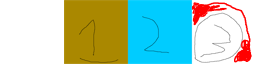
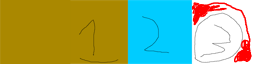
single tile sheet for tile map

Changed region(s): [[0.0, 0.0, 0.2812, 1.0]]

diff --git a/multiplayer_game_2d/tile_map.h b/multiplayer_game_2d/tile_map.h
@@ -11,15 +11,13 @@ struct tile_map
   const float tile_size_x;
   const float tile_size_y;
   const int vertice_count = (p_rows * p_columns * 4) + 4; // (4 vertices per tile) + 4 vertices for background
-  sf::Texture background_texture;
   sf::Texture tiles_texture;
   sf::Vertex vertex_buffer[(p_rows * p_columns * 4) + 4]; // (4 vertices per tile) + 4 vertices for background
   int bitmap[p_rows * p_columns] = {0};
   const int tiles_texture_offset;                         // pixel width and height for a tile in tile sheet
 
-  tile_map(const char* background_texture_file_path, const char* tiles_texture_file_path, const float window_size_x, const float window_size_y, const int p_tiles_texture_offset) : tile_size_x(window_size_x / rows),tile_size_y(window_size_y / columns), tiles_texture_offset(p_tiles_texture_offset)
+  tile_map(const char* tiles_texture_file_path, const float window_size_x, const float window_size_y, const int p_tiles_texture_offset) : tile_size_x(window_size_x / rows),tile_size_y(window_size_y / columns), tiles_texture_offset(p_tiles_texture_offset)
   {
-    background_texture.loadFromFile(background_texture_file_path);
     tiles_texture.loadFromFile(tiles_texture_file_path);
 
     // assign screen coordinates for background
@@ -41,7 +39,7 @@ struct tile_map
 
   void update_tex_coords_from_bitmap()
   {
-    for(int tile=0, vertex=4,texture_offset; tile < tile_count; ++tile, vertex+=4)
+    for(int tile=0, vertex=0,texture_offset; tile < tile_count; ++tile, vertex+=4)
     {
       texture_offset = bitmap[tile] * tiles_texture_offset;
 

diff --git a/multiplayer_game_2d/main.cpp b/multiplayer_game_2d/main.cpp
@@ -36,7 +36,7 @@ int main()
   sf::Sound tingling;
   tingling.setBuffer(tingling_sound_buffer);
   
-  tile_map<16,9> test("Assets/Images/floor.png", "Assets/Images/floor_aesthetic.png", (float) window_size.x, (float) window_size.y, 64);
+  tile_map<16,9> test("Assets/Images/floor_aesthetic.png", (float) window_size.x, (float) window_size.y, 64);
 
   /* setup and run game loop */
   sf::Event window_event;
@@ -107,8 +107,6 @@ int main()
     window.clear(sf::Color::Black);
 
     // draw map
-
-    window.draw(test.vertex_buffer, 4, sf::Quads, &test.background_texture);
     window.draw(test.vertex_buffer, test.vertice_count, sf::Quads, &test.tiles_texture);
     // draw entities
     // draw HUD (if decided to have static HUD)
